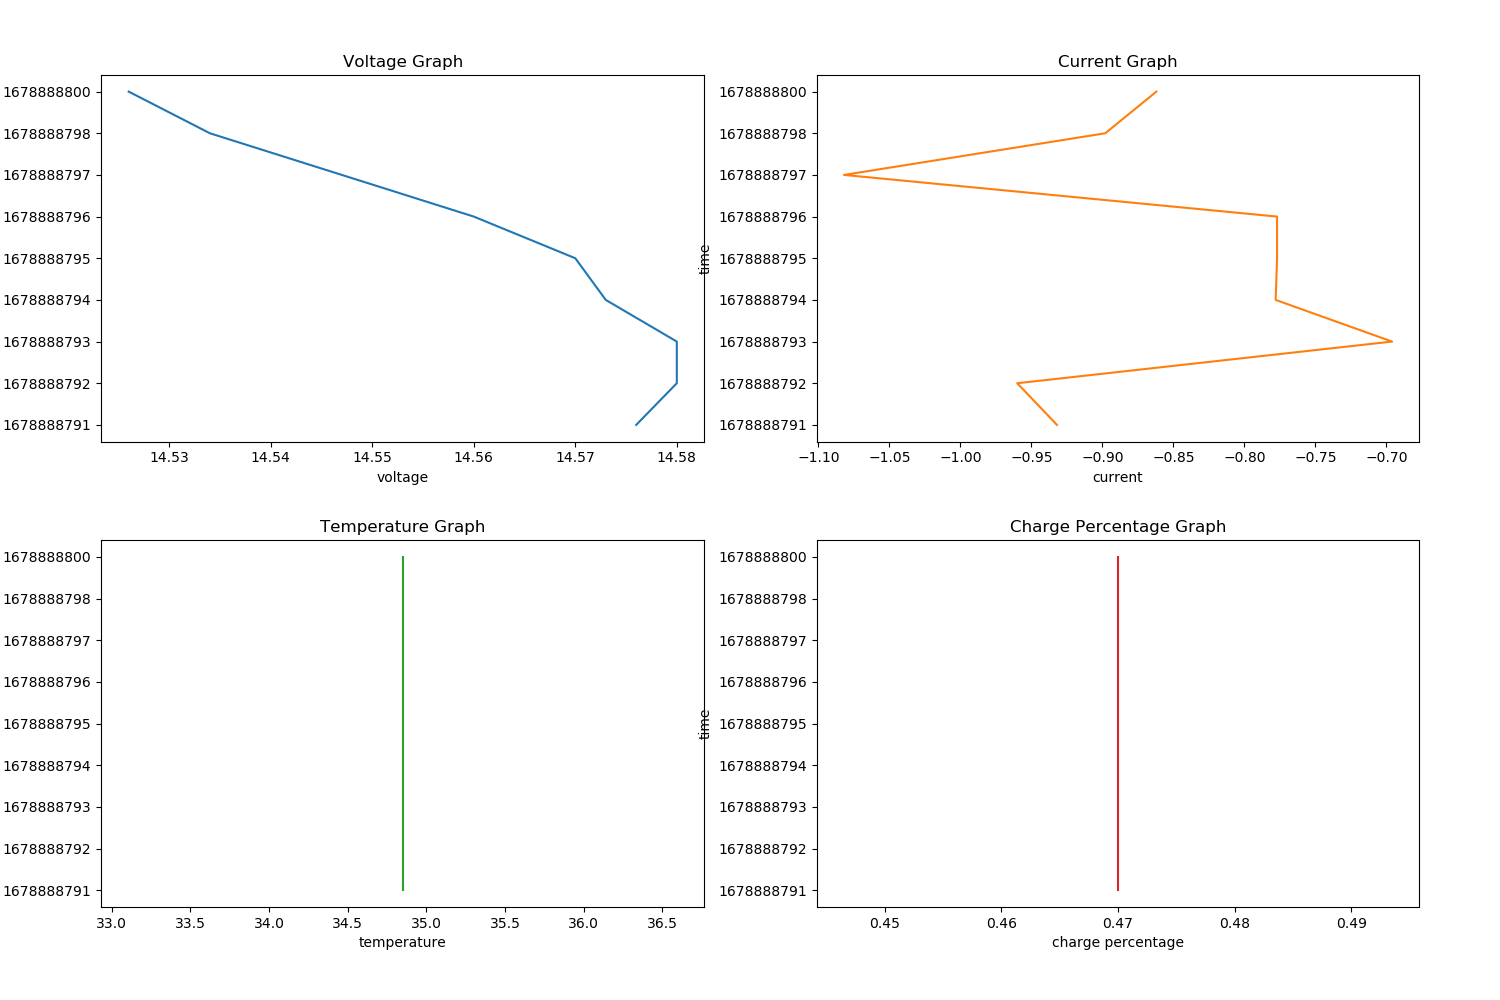
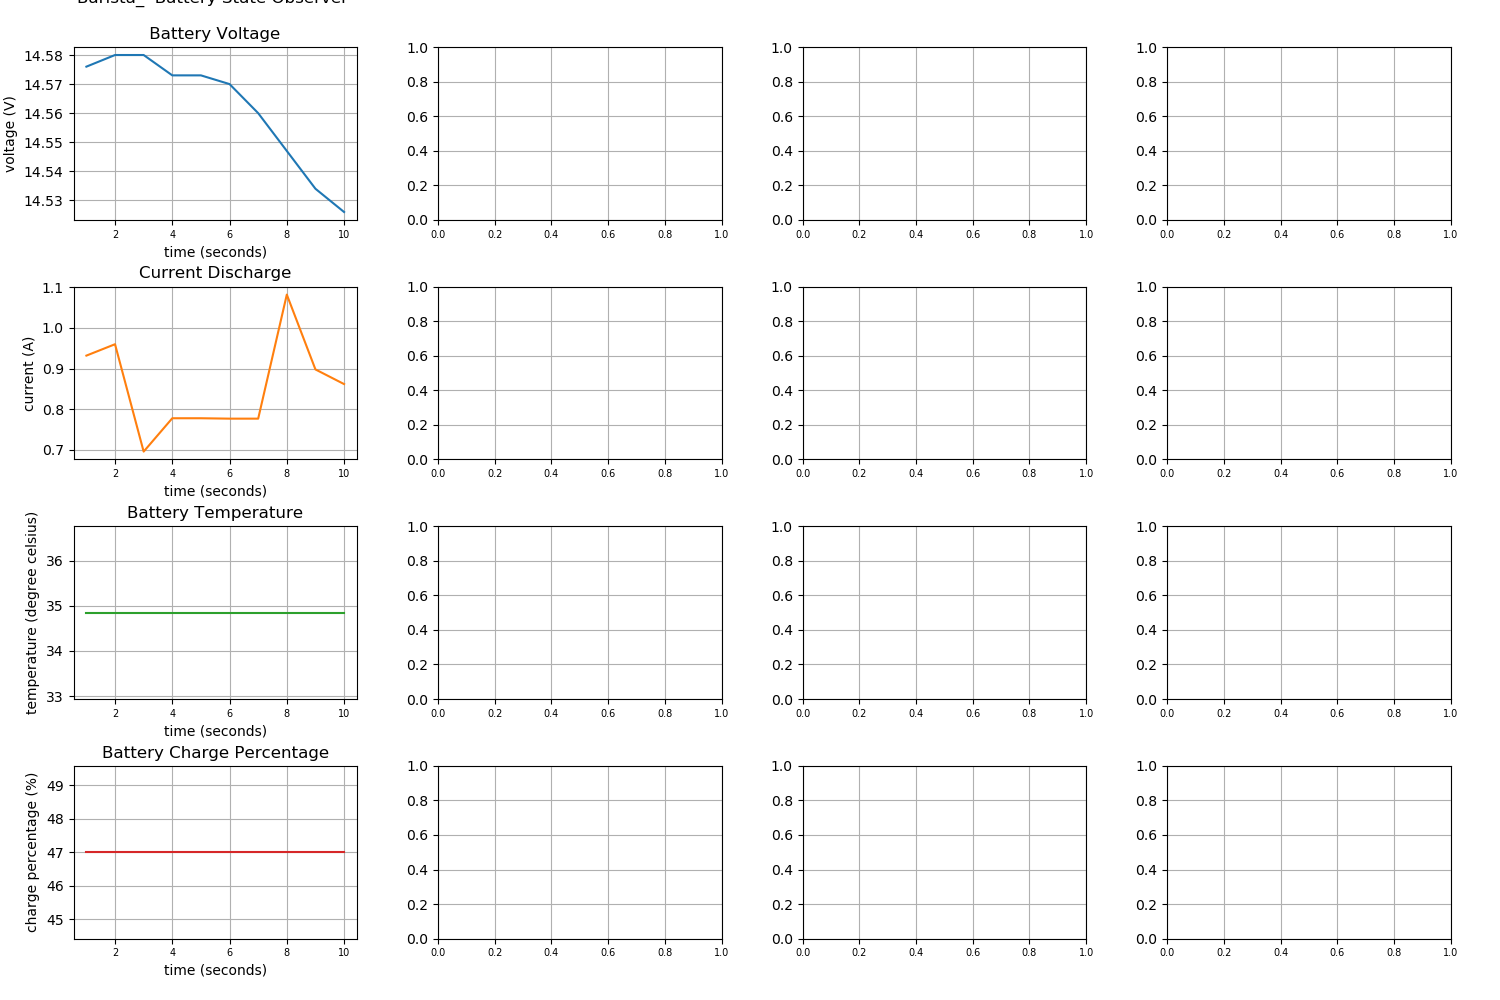
time axis in power observer, single plot for n robots

diff --git a/power_usage_observer/power_usage_observer/power_observer_plotter.py b/power_usage_observer/power_usage_observer/power_observer_plotter.py
@@ -6,27 +6,35 @@ import matplotlib
 
 class PowerObserverPlotter:
     def Power_Graph(time_array,voltage_array,current_array,temperature_array,charge_percentage_array):
-        
+        plt.rcParams['axes.grid'] = True
+        plt.rc('xtick', labelsize =7)
+        fig, axs = plt.subplots(4,no_of_bots,figsize = (15,10))
+
+        #fig, axs = plt.subplots(1,no_of_bots,figsize = (12,10))
+
+
         for i in range(no_of_bots):
 
-            fig, axs = plt.subplots(2, 2,figsize = (15,10))
-            fig.tight_layout(pad=5.0)
-        
+            #fig, axs = plt.subplots(4, 1,figsize = (15,10))
+            fig.tight_layout(pad=3.0)
+            #fig.suptitle("Barista_  Battery State Observer")
+            
 
-            axs[0, 0].plot(voltage_array[i], time_array[i])
-            axs[0, 0].set_title('Voltage Graph')
-            axs[0, 0].set(xlabel= 'voltage', ylabel='time')
-            axs[0, 1].plot(current_array[i], time_array[i], 'tab:orange')
-            axs[0, 1].set_title('Current Graph')
-            axs[0, 1].set(xlabel= 'current', ylabel='time')
-            axs[1, 0].plot(temperature_array[i], time_array[i], 'tab:green')
-            axs[1, 0].set_title('Temperature Graph')
-            axs[1, 0].set(xlabel= 'temperature', ylabel='time')
-            axs[1, 1].plot(charge_percentage_array[i], time_array[i], 'tab:red')
-            axs[1, 1].set_title('Charge Percentage Graph')
-            axs[1, 1].set(xlabel= 'charge percentage', ylabel='time')
+            axs[0,i].plot(time_array[i],voltage_array[i])
+            axs[0,i].set_title('Barista_  Battery State Observer \n \n Battery Voltage ')
+            axs[0,i].set(xlabel='time (seconds)',ylabel= 'voltage (V)')
+            axs[1,i].plot(time_array[i],current_array[i],  'tab:orange')
+            axs[1,i].set_title('Current Discharge')
+            axs[1,i].set( xlabel='time (seconds)',ylabel= 'current (A)')
+            axs[2,i].plot(time_array[i],temperature_array[i],  'tab:green')
+            axs[2,i].set_title('Battery Temperature')
+            axs[2,i].set( xlabel='time (seconds)',ylabel= 'temperature (degree celsius)')
+            axs[3,i].plot(time_array[i],charge_percentage_array[i],  'tab:red')
+            axs[3,i].set_title('Battery Charge Percentage')
+            axs[3,i].set(xlabel='time (seconds)',ylabel= 'charge percentage (%)')
         
             plt.savefig(graph_path+str(i)+'.png')
+
         plt.show()
 
 
@@ -60,15 +68,37 @@ for i in range(no_of_bots):
 
 for i in range(no_of_bots):
     with open(csv_path+str(i)+'.csv', 'r') as csvfile:
+             
         reader = csv.reader(csvfile)
-        for row in reader:
+        counter = 1
+  
+        for abc in reader:
+            if abc.__contains__("time"):
+                continue
+           # time_array[i].append(counter)
+            voltage_array[i].append(nmpi.round(float(abc[1]),3))
+            current_array[i].append((nmpi.round(float(abc[2]),3))*(-1))
+            temperature_array[i].append(nmpi.round(float(abc[3]),3))
+            charge_percentage_array[i].append((nmpi.round(float(abc[4]),3))*100)
+            counter = counter+1    
+  
+
+for i in range(no_of_bots):
+    with open(csv_path+str(i)+'.csv', 'r') as csvfile:
+        reader = csv.reader(csvfile)
+        rows = list(reader)
+        first_row = rows[1][0]
+        last_row = rows[-1][0]
+        
+        c = 1
+        mean_time = (int(last_row)-int(first_row))/(counter-2)
+        mean_time = round(mean_time)
+        for row in rows:
             if row.__contains__("time"):
                 continue
-            time_array[i].append(row[0])
-            voltage_array[i].append(nmpi.round(float(row[1]),3))
-            current_array[i].append(nmpi.round(float(row[2]),3))
-            temperature_array[i].append(nmpi.round(float(row[3]),3))
-            charge_percentage_array[i].append(nmpi.round(float(row[4]),3))
+            time_array[i].append(c)
+            c = c+mean_time
+        print(time_array)
 PowerObserverPlotter.Power_Graph(time_array,voltage_array,current_array,temperature_array,charge_percentage_array)
         
         

diff --git a/mileage_observer/mileage_observer/mileage_observer_plotter.py b/mileage_observer/mileage_observer/mileage_observer_plotter.py
@@ -10,6 +10,8 @@ import os
 class MileageObserverPlotter:
     
     def mileage_path_graph(path_travelled,actual_path_length):
+        c=0
+        fig, ax = plt.subplots(len(path_travelled),1,figsize = (12,10))
         for i in range(len(path_travelled)):
             def trunc(values, decs =0):
                 return np.trunc(values*10**decs)/(10**decs)
@@ -28,46 +30,38 @@ class MileageObserverPlotter:
             actual_path_length_data, path_dist_std = actual_path_length[i], std
 
             ind = np.arange(len(path_travelled_data))  # the x locations for the groups
-            width = 0.30  # the width of the bars
+            width = 0.1 # the width of the bars
             matplotlib.rc('xtick', labelsize =13)
             matplotlib.rc('ytick', labelsize =13)
             matplotlib.rc('axes', labelsize =13)
             matplotlib.rc('figure', titlesize =20)
-            fig, ax = plt.subplots(figsize = (12,10))
-            rects1 = ax.bar(ind - width/2, path_travelled_data, width, yerr=mileage_std,label='Path Travelled ')
-            rects2 = ax.bar(ind + width/2, actual_path_length_data, width, yerr=path_dist_std,label='Actual Path Length')
-
+            #fig, ax = plt.subplots(1,len(path_travelled),figsize = (12,10))
+            rects1 = ax[c].bar(ind - width/2, path_travelled_data, width, yerr=mileage_std,label='Path Travelled ')
+            rects2 = ax[c].bar(ind + width/2, actual_path_length_data, width, yerr=path_dist_std,label='Actual Path Length')
             # Add some text for labels, title and custom x-axis tick labels, etc.
-            ax.set_ylabel('Distance in meters')
-            ax.set_xlabel('Iteration count')
-            ax.set_title('Path Travelled vs Actual Path Length - Barista : ' + str(i))
-            ax.set_xticks(ind)
-            
-
-            ax.set_xticklabels(iteration)
-            #plt.xticks(rotation = 45,ha = 'right')
-            ax.legend()
-            
-
+            ax[c].set_ylabel('Distance in meters')
+            ax[c].set_xlabel('Iteration count')
+            ax[c].set_title('Path Travelled vs Actual Path Length - Barista : ' + str(i))
+            ax[c].set_xticks(ind)
+            ax[c].set_xticklabels(iteration)
+            ax[c].legend()
             def autolabel(rects, xpos='center'):
                 ha = {'center': 'center', 'right': 'left', 'left': 'right'}
                 offset = {'center': 0, 'right': 1, 'left': -1}
 
                 for rect in rects:
                     height = rect.get_height()
-                    ax.annotate('{}'.format(height),
+                    ax[c].annotate('{}'.format(height),
                                 xy=(rect.get_x() + rect.get_width() / 2, height),
                                 xytext=(offset[xpos]*3, 3),  # use 3 points offset
                                 textcoords="offset points",  # in both directions
                                 ha=ha[xpos], va='bottom')
-
-
             autolabel(rects1, "left")
-            autolabel(rects2, "right")
-
+            autolabel(rects2, "right")  
             fig.tight_layout()
-            plt.savefig(graph_path+str(i)+'.png')
-        
+            c=c+1
+        plt.savefig(graph_path+'mileage_plot.png')
+
         plt.show()   
 
 
